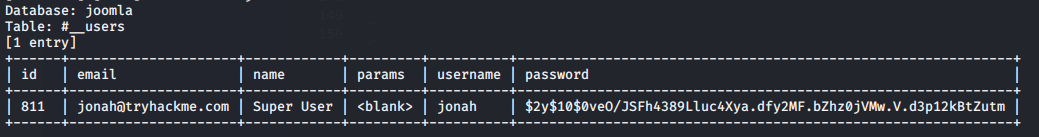
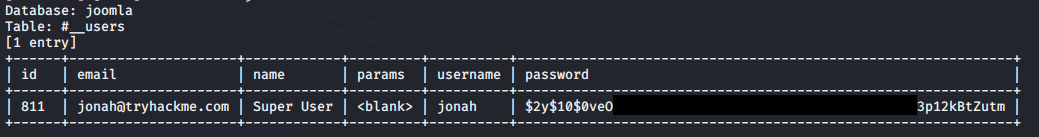
Modification to comply with thm

Changed region(s): [[0.5852, 0.6715, 0.8932, 0.8467]]

diff --git a/content/posts/dailyBugle.md b/content/posts/dailyBugle.md
@@ -73,19 +73,10 @@ Let's try to brute-force it with our friend `john`:
 sudo john -format=bcrypt --wordlist=/usr/share/wordlists/rockyou.txt hash.txt
 ```
 
-After a few long minutes we cracked the password! Ah yeah...`spiderman123`...how surprising...
+After a few long minutes we cracked the password! Ah yeah...how surprising...
 
 {{< image src="/img/dailyBugle/jonah.jpg" alt="Hello Friend" position="center" style="border-radius: 8px;" >}}
 
-We have the credentials for the following user:
-
-```text
-id          811
-name        Super User
-email       jonah@tryhackme.com
-username    jonah
-password    spiderman123
-```
 
 ## The super template!
 
